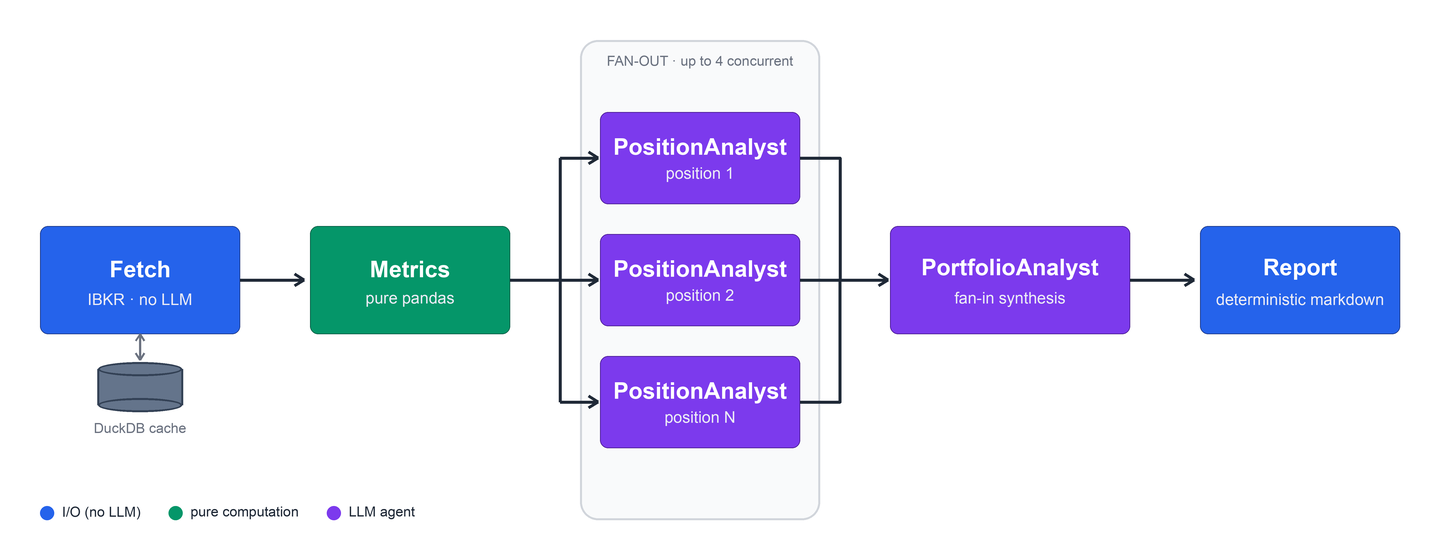
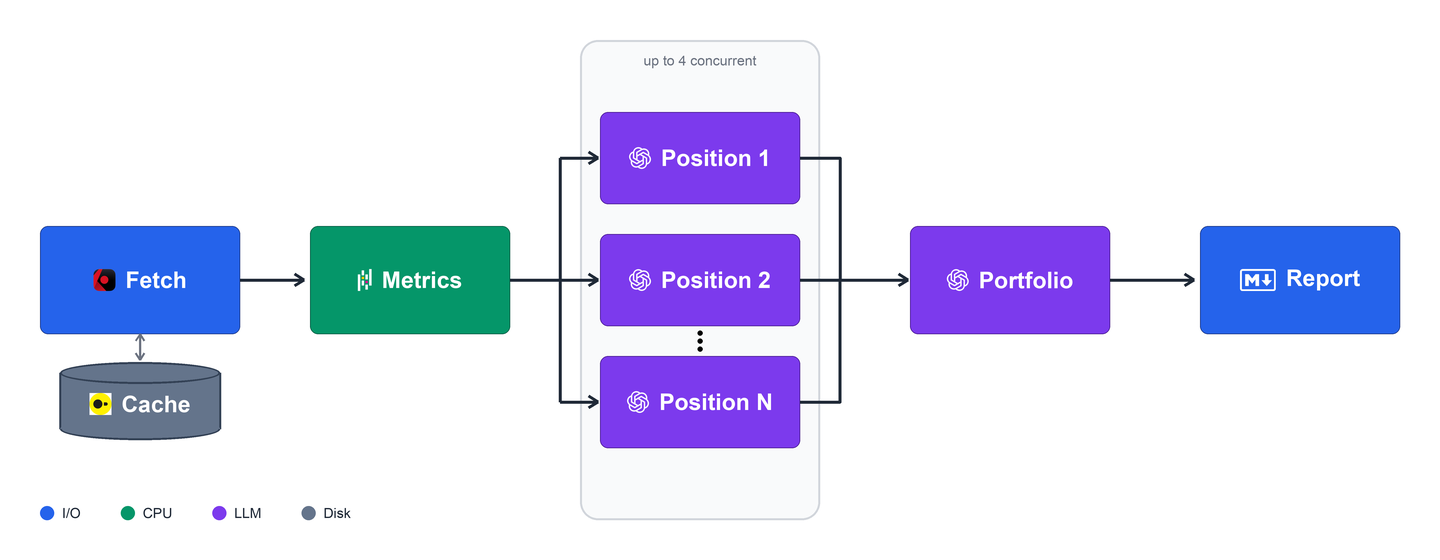
Update pipeline flow image in README

diff --git a/README.md b/README.md
@@ -44,4 +44,4 @@ uv run portfolio-agents      # writes reports/report-NNN.md
    analyst sentiment via hosted web search; all claims cite dated sources.
 4. **Portfolio** — a tool-free PortfolioAnalyst synthesizes the account snapshot, portfolio metrics,
    and every position assessment into the portfolio view.
-5. **Report** — deterministic markdown render; the final report is not an LLM call.
+5. **Report** — deterministic markdown render